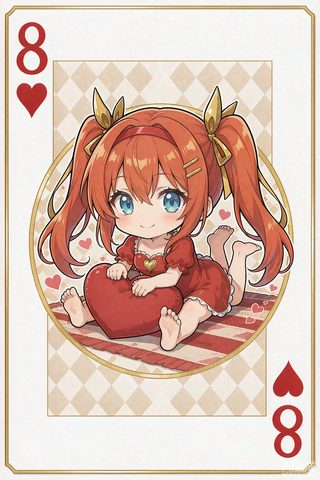
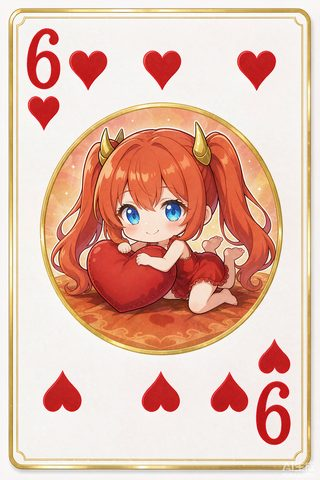
assets: 同步蜘蛛纸牌牌面更新（红桃6 / 红桃J / 黑桃J）
对照 D:\双姝扑克牌设计\完整54张 逐张比对（同一转换流水线：PNG→宽320→JPEG q82）：
- 56 项中 53 项无变化（黑桃A 源文件被重存但转换结果逐字节相同）
- 3 张有变化并已更新：红桃6（差异 75.6%）、红桃J（93.2%）、黑桃J（63.6%）
- 替换前校验：花色颜色特征正确、与其它牌无重复图
- 浏览器实测：52 张牌图全部加载，棋盘 54 张 img 无失败
- 已同步本机安装目录

diff --git a/ACCEPTANCE.md b/ACCEPTANCE.md
@@ -1,48 +1,33 @@
-# 验收报告 · v1.2.0（扫雷 36×36 + 宽屏布局修复发版）（2026-09-10）
+# 验收报告 · 蜘蛛纸牌牌面素材同步（2026-09-10）
 
 ## 需求
-“将扫雷 99*99 的删除，改为 36*36，版本定为 1.2.0。”
+“D:\双姝扑克牌设计\完整54张 对照所给文件，更新蜘蛛纸牌中纸牌有改变的部分。”
 
-## 变更
-### 1. 扫雷难度调整（mine.html）
-- `hard` 档：`99×99 · 999 使徒` → **`36×36 · 200 使徒`**（雷密度 15.4%，与经典专家级 16×16·40 一致）
-- 顶部按钮：`使徒級·S2 99×99` → `使徒級·S2 36×36`；相关注释同步
-- 三档现状：見習い 9×9·10 / 正規隊員 16×16·40 / **使徒級·S2 36×36·200**
-- README 两处描述同步更新
+## 比对方法
+按原转换流水线（`scripts/prepare_spider_cards.py`：PNG → 等比缩到宽 320 → JPEG q82）逐个重新转换
+源目录 54 张 + 上级目录两张牌背（`10_牌背_蓝副.png` / `11_牌背_红副.png`），
+与 `assets/spider/cards/` 现有 56 个文件做逐字节 + 像素差异比对。
 
-### 2. 版本与产物
-- `serve.py` VERSION → **v1.2.0**
-- 重新打包：`dist/EVA-MiniGames-Setup-v1.2.0.exe`（154,421,889 B）、
-  `dist/EVA小游戏.zip`、`dist/EVA小游戏/`、`dist/EVA小游戏-安装程序.exe`
-- 旧包清理：删除 `dist/EVA-MiniGames-Setup-v1.1.9.exe`，dist 仅保留 v1.2.0
-- 打包脚本自动同步本机安装目录（v1.2.0）并重建桌面/开始菜单快捷方式
+## 比对结果（共 56 项）
+| 结果 | 数量 | 明细 |
+| --- | --- | --- |
+| 完全一致（无需更新） | 53 | 含 `黑桃A`：源文件被重新保存过（mtime 09-10 21:43）但转换结果与本地逐字节相同，内容无变化 |
+| **有变化** | 3 | **红桃6**（像素差异 75.6%）、**红桃J**（93.2%）、**黑桃J**（63.6%） |
 
-### 3. 本次一并发布的既有修复
-- 宽屏下正文自动让位（游戏区与顶部按钮不再压到两侧装饰栏）
-- 蜘蛛纸牌拖拽修复（整段任意牌可抓 + 可拖/被压提示）
+## 处理
+1. 3 张新图**用同一流水线重新转换**后替换（宽 320 / JPEG q82，与其它牌一致）：
+   `红桃6.jpg 36,209B`、`红桃J.jpg 50,100B`、`黑桃J.jpg 32,295B`
+2. 替换前校验：花色颜色特征正确（红桃偏红 0.251/0.271，黑桃偏黑 0.000）、
+   与其它 52 张**无重复图**（md5 比对）
+3. 已同步到本机安装目录（三张图 md5 与项目一致）
 
-## 验证证据
+## 验证证据（真实浏览器）
+- 52 张牌图**全部加载成功**（0 失败），新图尺寸均 320×480
+- 渲染棋盘：54 张 `<img>` **0 张失败**（44 张牌背 + 10 张明牌）
+- HTTP 校验：三张新图经 URL 编码请求均返回 200，字节数与本地一致
 
-### 1. 36×36 扫雷实测（浏览器 1400px 宽）
-- 难度表：easy 9×9·10 / normal 16×16·40 / **hard 36×36·200**
-- 切到最高档：格子总数 **1296 = 36×36**，格子 25px，棋盘 982×984，
-  HUD 使徒余量 200，页面**无越界**（1400px 下容器内也不需要滚动）
-- 玩法链路：首点安全（未踩雷）、翻开 4 格、计时启动
-
-### 2. 打包产物校验（zip 内实测）
-- `mine.html` hard 档 = `36×36 · 200`，包内**已无 99×99**
-- `serve.py` = v1.2.0；`deco.js` 含 `__decoGutter` 让位逻辑；`spider.html` 含拖拽修复
-
-### 3. GitHub Release
-- 新建 Release **v1.2.0**「EVA 小游戏 v1.2.0 · 扫雷 36×36 + 宽屏布局修复」，说明 565 字（含 36×36 说明）
-- 资产 `EVA-MiniGames-Setup-v1.2.0.exe` 上传成功，远端 154,421,889 B 与本地一致
-- 代码推送 main（commit 2403e68398）
-
-### 4. 升级闭环与启动链路
-- 更新检测：`current=v1.2.0 latest=v1.2.0 update=false`，url 指向 v1.2.0 资产
-- 本机安装目录：serve.py = v1.2.0，mine.html 含 36×36、已无 99×99
-- 桌面快捷方式双击启动：窗口「EVA 小游戏 · 明日香 × 绫波丽」，服务报 **v1.2.0**
-
-## 备注
-- GitHub 上旧 Release（v1.1.x 等）仍保留；如需清理请明确告知（不可逆）
-- 本机 WDAC 仍拦截无签名 exe，本机入口为桌面 vbs → pywebview；安装包供其他电脑使用
+## 同步
+- git：提交 `assets/spider/cards/红桃6.jpg`、`红桃J.jpg`、`黑桃J.jpg`
+- 本机安装目录已更新（桌面程序刷新即生效）
+- **未重新打包安装包/Release**：本轮只更新素材文件；如需把新牌面做进安装包分发，可再发一版
+  （v1.2.1），届时 `build_release.py` 会自动带上并同步本机
